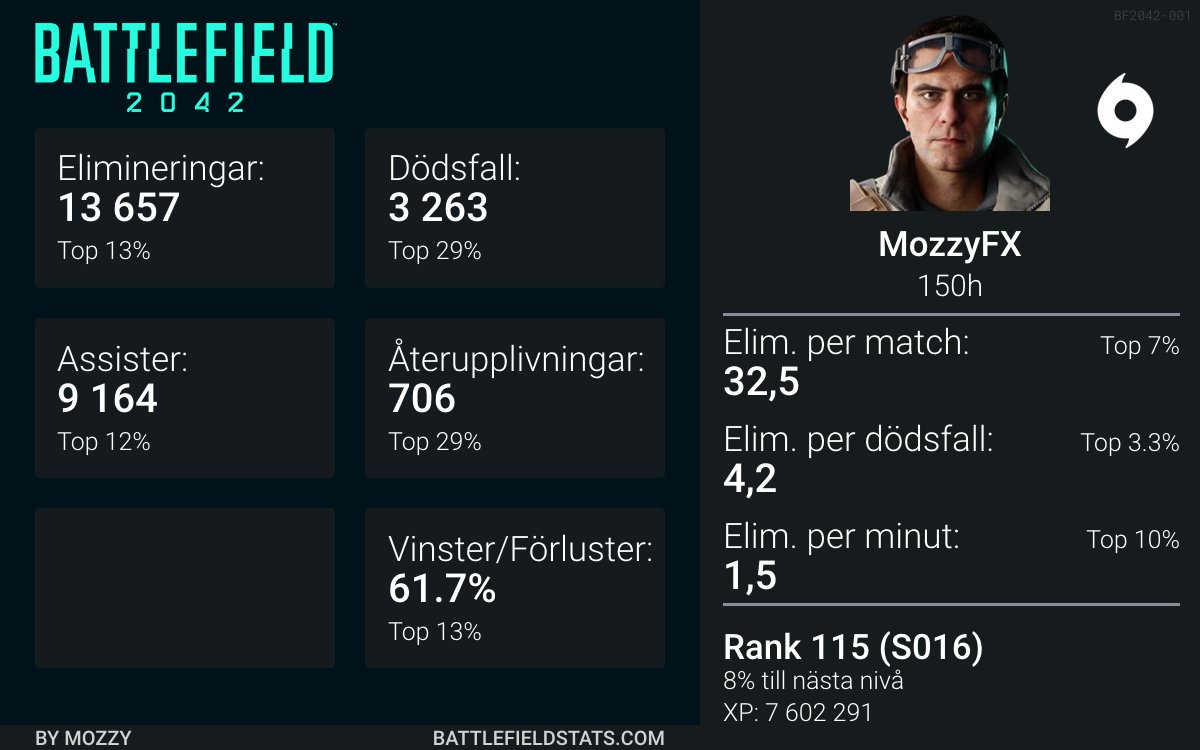
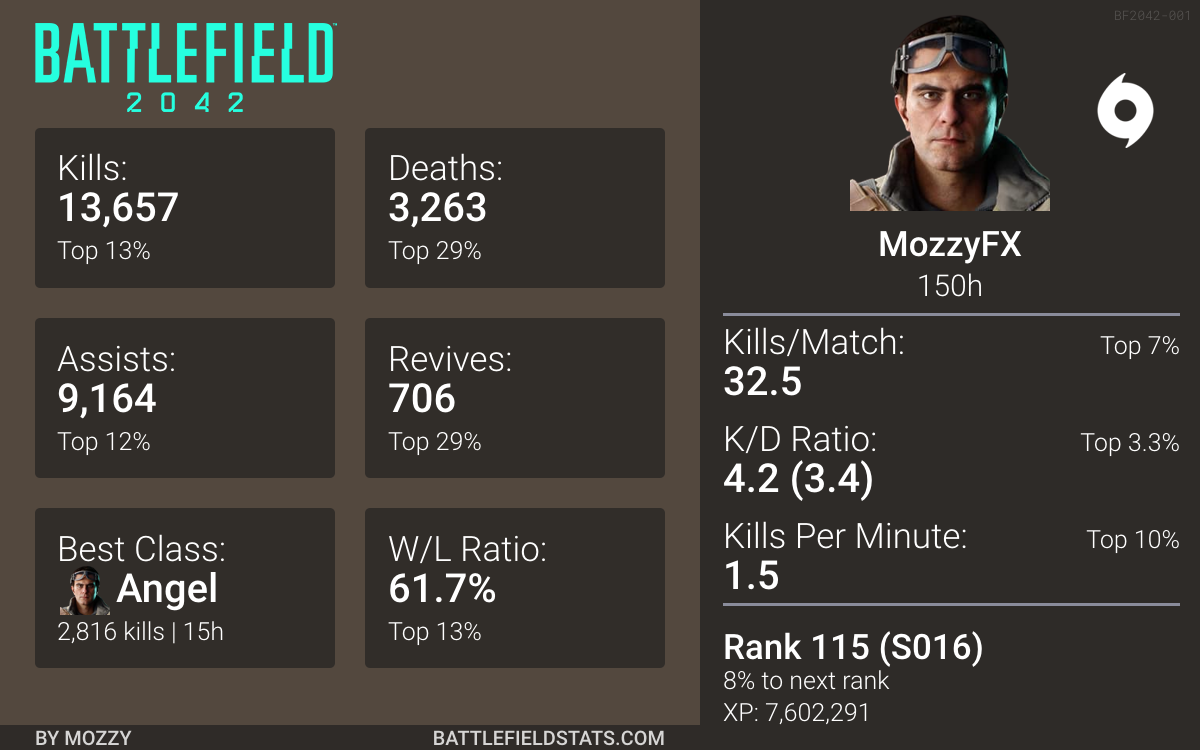
bf2042overview: implement class data

diff --git a/commandhandlers/bf2042/overview.go b/commandhandlers/bf2042/overview.go
@@ -3,6 +3,8 @@ package commandhandlers
 import (
 	"cmp"
 	"fmt"
+	"sort"
+	"strings"
 
 	"github.com/leonlarsson/bfstats-bot-go/canvasdatashapes"
 	create "github.com/leonlarsson/bfstats-bot-go/create/bf2042"
@@ -14,9 +16,13 @@ import (
 )
 
 // HandleBF2042OverviewCommand handles the bf2042 overview command.
-// TODO: In the future, this will take a loc param. Similar to bfstats-bot implementation.
 func HandleBF2042OverviewCommand(loc localization.LanguageLocalizer, platform, username string) error {
 	data, err := bf2042datafetcher.FetchBF2042OverviewData(platform, username)
+	if err != nil {
+		return err
+	}
+
+	classData, err := bf2042datafetcher.FetchBF2042ClassesData(platform, username)
 	if err != nil {
 		return err
 	}
@@ -25,6 +31,11 @@ func HandleBF2042OverviewCommand(loc localization.LanguageLocalizer, platform, u
 	if err != nil {
 		return err
 	}
+
+	// Sort the classes by kills
+	sort.Slice(classData.Data, func(i, j int) bool {
+		return classData.Data[i].Stats.Kills.Value > classData.Data[j].Stats.Kills.Value
+	})
 
 	// Create the image
 	imageData := canvasdatashapes.BF2042OverviewCanvasData{
@@ -69,11 +80,11 @@ func HandleBF2042OverviewCommand(loc localization.LanguageLocalizer, platform, u
 				Value: overviewSegment.Stats.WlPercentage.DisplayValue,
 				Extra: utils.PercentileToString(overviewSegment.Stats.WlPercentage.Percentile),
 			},
-			// BestClass: canvasdatashapes.Stat{
-			// 	Name:  loc.TranslateWithColon("stats/title/bestclass"),
-			// 	Value: "Angel",
-			// 	Extra: "2,813 kills | 15 hours",
-			// },
+			BestClass: canvasdatashapes.Stat{
+				Name:  loc.TranslateWithColon("stats/title/bestclass"),
+				Value: strings.TrimSpace(classData.Data[0].Metadata.Name),
+				Extra: fmt.Sprintf("%s | %s", loc.Translate("stats/title/x_kills_short", map[string]string{"kills": loc.FormatInt(classData.Data[0].Stats.Kills.Value)}), classData.Data[0].Stats.TimePlayed.DisplayValue),
+			},
 			KillsPerMatch: canvasdatashapes.Stat{
 				Name:  loc.TranslateWithColon("stats/title/kills_per_match"),
 				Value: loc.FormatFloat(overviewSegment.Stats.KillsPerMatch.Value, 1),
@@ -81,7 +92,7 @@ func HandleBF2042OverviewCommand(loc localization.LanguageLocalizer, platform, u
 			},
 			KdRatio: canvasdatashapes.Stat{
 				Name:  loc.TranslateWithColon("stats/title/kd"),
-				Value: loc.FormatFloat(overviewSegment.Stats.KdRatio.Value, 1),
+				Value: fmt.Sprintf("%s (%s)", loc.FormatFloat(overviewSegment.Stats.KdRatio.Value, 1), loc.FormatFloat(overviewSegment.Stats.HumanKdRatio.Value, 1)),
 				Extra: utils.PercentileToString(overviewSegment.Stats.KdRatio.Percentile),
 			},
 			KillsPerMinute: canvasdatashapes.Stat{

diff --git a/datafetchers/bf2042datafetcher/classes.go b/datafetchers/bf2042datafetcher/classes.go
@@ -1,0 +1,62 @@
+package bf2042datafetcher
+
+import (
+	"encoding/json"
+	"fmt"
+	"net/http"
+	"os"
+
+	"github.com/leonlarsson/bfstats-bot-go/utils"
+)
+
+type TRNClassesResponse struct {
+	Data []ClassData
+}
+
+type ClassData struct {
+	Type       string
+	Attributes struct {
+		Soldier     string
+		CategoryKey string
+		Mode        string
+	}
+	Metadata struct {
+		Name     string
+		Category string
+		ImageURL string
+	}
+	Stats struct {
+		TimePlayed TRNOverviewBasicStat[int]
+		Kills      TRNOverviewBasicStat[int]
+	}
+}
+
+type TRNClassBasicStat[T any] struct {
+	Value        T
+	DisplayValue string
+	Percentile   *float64
+}
+
+func FetchBF2042ClassesData(platform, username string) (TRNClassesResponse, error) {
+	var trnResponse TRNClassesResponse
+
+	url := utils.TRNBF2042ClassesURL(platform, username)
+
+	req, _ := http.NewRequest("GET", url, nil)
+	req.Header.Set("TRN-Internal-Api-Key", os.Getenv("TRN_API_KEY"))
+	res, err := http.DefaultClient.Do(req)
+	if err != nil {
+		return trnResponse, err
+	}
+	defer res.Body.Close()
+
+	if res.StatusCode != 200 {
+		return trnResponse, fmt.Errorf("API returned a non-200 status code: %d", res.StatusCode)
+	}
+
+	if err := json.NewDecoder(res.Body).Decode(&trnResponse); err != nil {
+		return trnResponse, err
+	}
+
+	return trnResponse, nil
+}

diff --git a/datafetchers/bf2042datafetcher/overview.go b/datafetchers/bf2042datafetcher/overview.go
@@ -38,6 +38,7 @@ type TRNOverviewSegmentStats struct {
 	BestClass        TRNOverviewBasicStat[int]
 	KillsPerMatch    TRNOverviewBasicStat[float64]
 	KdRatio          TRNOverviewBasicStat[float64]
+	HumanKdRatio     TRNOverviewBasicStat[float64]
 	KillsPerMinute   TRNOverviewBasicStat[float64]
 	MultiKills       TRNOverviewBasicStat[int]
 	Level            TRNOverviewBasicStat[int]
@@ -73,27 +74,4 @@ func FetchBF2042OverviewData(platform, username string) (TRNOverviewResponse, er
 	}
 
 	return trnResponse, nil
-}
-
-// Unused, but a cool idea
-func (trnResponse *TRNOverviewResponse) Fetch(platform, username string) error {
-	url := utils.TRNBF2042OverviewURL(platform, username)
-
-	req, _ := http.NewRequest("GET", url, nil)
-	req.Header.Set("TRN-Internal-Api-Key", os.Getenv("TRN_API_KEY"))
-	res, err := http.DefaultClient.Do(req)
-	if err != nil {
-		return err
-	}
-	defer res.Body.Close()
-
-	if res.StatusCode != 200 {
-		return fmt.Errorf("API returned a non-200 status code: %d", res.StatusCode)
-	}
-
-	if err := json.NewDecoder(res.Body).Decode(trnResponse); err != nil {
-		return err
-	}
-
-	return nil
 }

diff --git a/utils/apiurls.go b/utils/apiurls.go
@@ -13,3 +13,7 @@ func TRNBF2042WeaponsURL(platform string, username string) string {
 func TRNBF2042VehiclesURL(platform string, username string) string {
 	return fmt.Sprintf("https://public-api.tracker.gg/v2/bf2042/standard/profile/%s/%s/segments/vehicle", platform, username)
 }
+
+func TRNBF2042ClassesURL(platform string, username string) string {
+	return fmt.Sprintf("https://public-api.tracker.gg/v2/bf2042/standard/profile/%s/%s/segments/soldier", platform, username)
+}

diff --git a/main.go b/main.go
@@ -18,7 +18,7 @@ func init() {
 }
 
 func main() {
-	loc := *localization.CreateLocForLanguage("sv")
+	loc := *localization.CreateLocForLanguage("en")
 
 	err := commandhandlers.HandleBF2042OverviewCommand(loc, "origin", "MozzyFX")
 	if err != nil {
